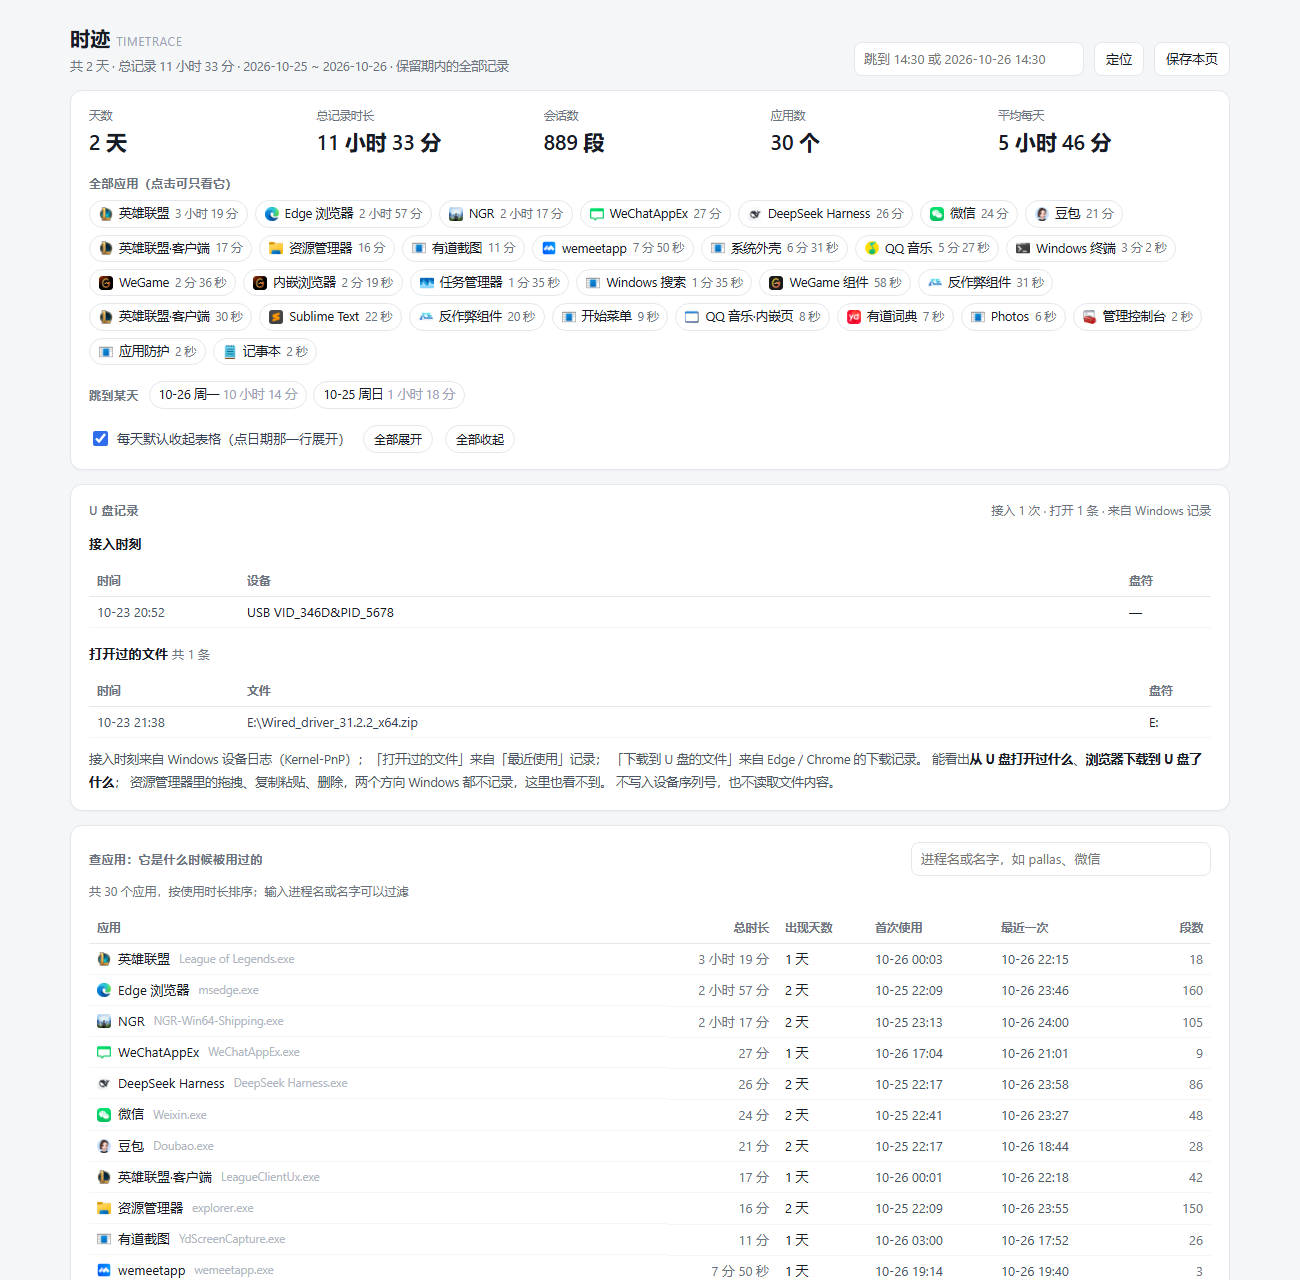
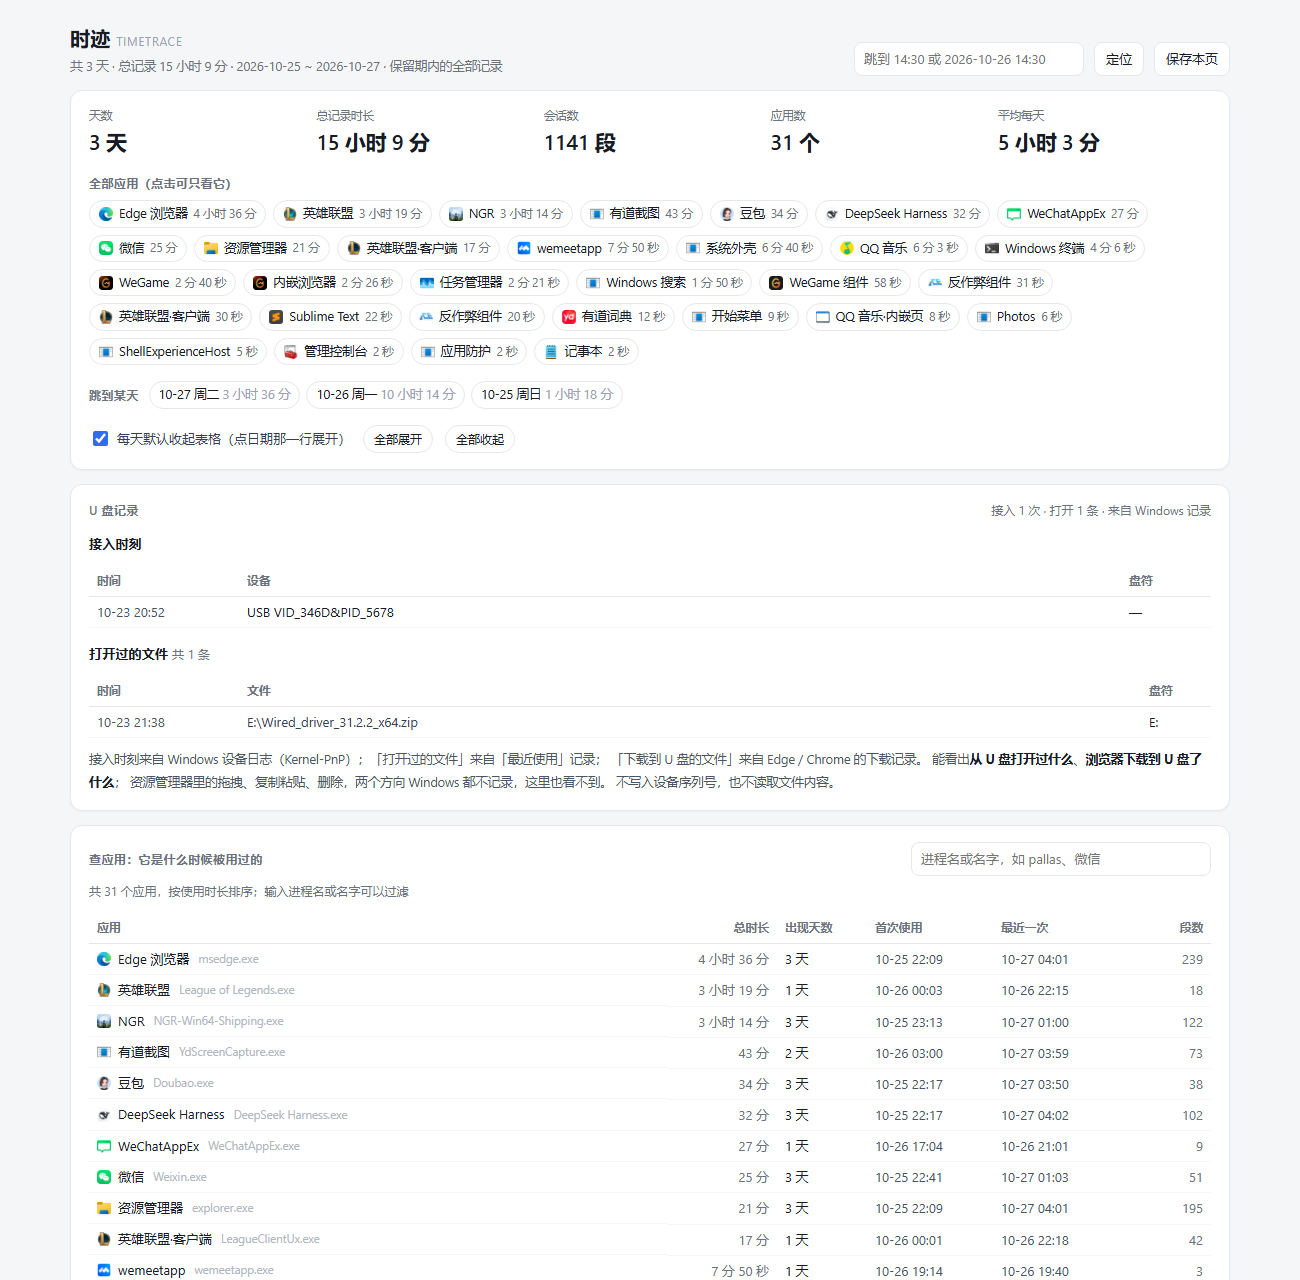
fix: include the current local day in the default range
Log shards are named by UTC day, so at 00:00-08:00 local (UTC+8) the newest
local day still lives in yesterday's UTC shard. resolve_range used the last
shard's filename as the end date, which dropped the current morning.
Always end at local today; also drop a duplicated resolve_range definition.

diff --git a/timetrace.py b/timetrace.py
@@ -34,7 +34,7 @@ from datetime import date, datetime, time as dtime, timedelta
 
 APP_NAME = "时迹"
 APP_NAME_EN = "TimeTrace"
-VERSION = "1.4.0"
+VERSION = "1.4.1"
 APP_TITLE = "时迹 · 操作时间线"
 
 # 日志保留天数：超过这个天数的数据分片会被自动删除
@@ -1806,16 +1806,23 @@ def auto_prune(args):
 
 
 def resolve_range(args, default_days=None):
-    """有 --days/--from/--to 就按它；否则用数据目录里保留期内的日子。"""
+    """有 --days/--from/--to 就按它；否则用保留期内的日子。
+
+    注意：日志分片是按 **UTC 日** 命名的，本地日期与它最多差一天。
+    所以结尾一律用「本地今天」，不能拿最后那个分片的文件名当结尾，
+    否则本地 0:00–8:00（UTC+8）这段会被漏掉。
+    """
     if args.days or args.from_day or args.to_day:
         return range_from_args(args)
     days = default_days or getattr(args, "retention", RETENTION_DAYS) or RETENTION_DAYS
     logs = all_log_days()
-    t = logs[-1] if logs else date.today()
+    t = date.today()
     f = logs[0] if logs else t - timedelta(days=days - 1)
     floor = t - timedelta(days=days - 1)
     if f < floor:
         f = floor
+    if f > t:
+        f = t
     return f, t
 
 
@@ -1833,19 +1840,6 @@ def range_from_args(args, default_days=7):
         return f, t
     t = date.today()
     return t - timedelta(days=days - 1), t
-
-
-def resolve_range(args):
-    """有 --days/--from/--to 就按它；否则用数据目录里所有有记录的日子。"""
-    if args.days or args.from_day or args.to_day:
-        return range_from_args(args)
-    logs = all_log_days()
-    t = logs[-1] if logs else date.today()
-    f = logs[0] if logs else t - timedelta(days=6)
-    if (t - f).days > 366:
-        f = t - timedelta(days=366)
-        print("记录超过 366 天，只查最近 366 天。要查更早的请用 --from / --to。")
-    return f, t
 
 
 def cmd_prune(args):
